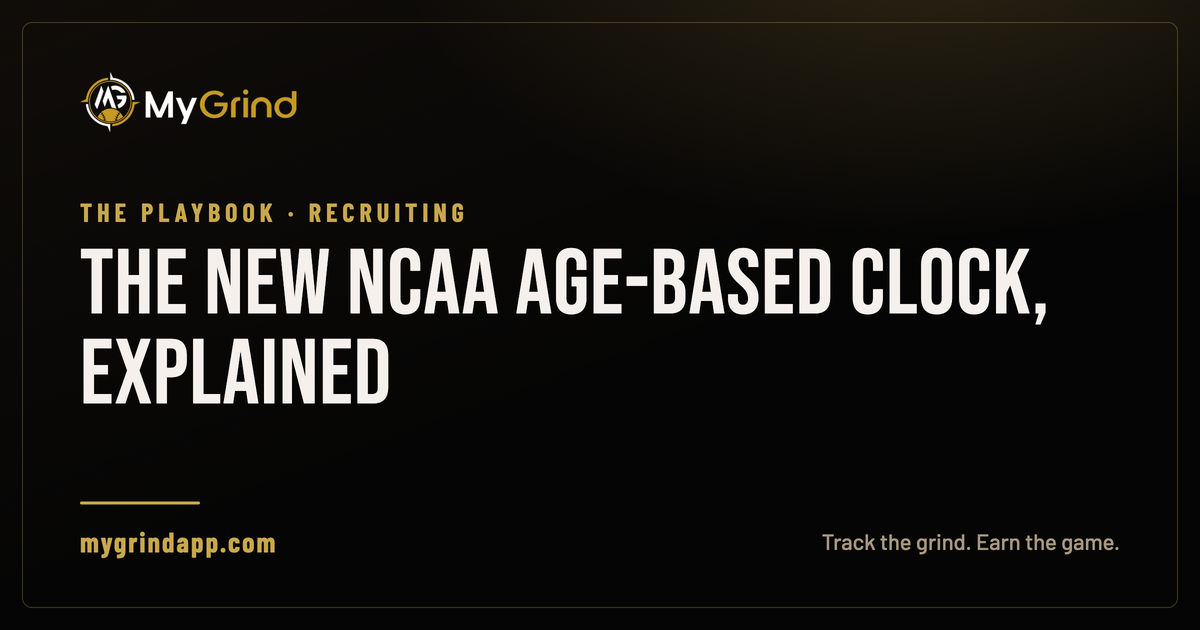
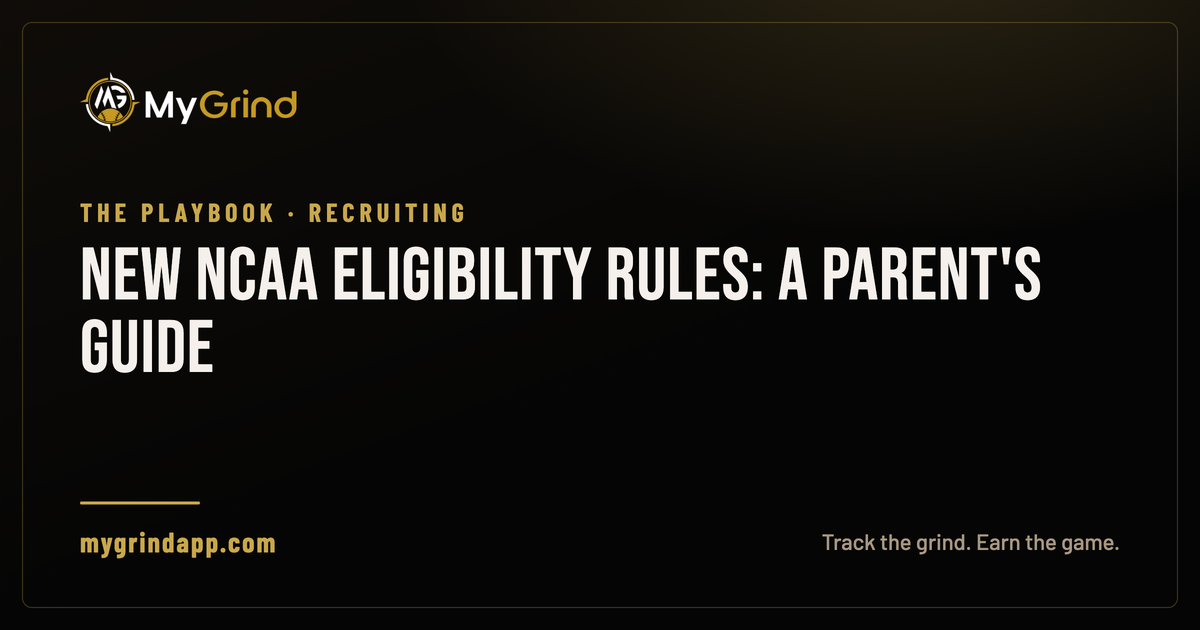
Blog: clearer title on NCAA rule-change post (audience + benefit)
"New NCAA Eligibility Rules 2026: A Baseball & Softball Parent's Guide"
replaces the jargon-led "The Age-Based Clock, Explained" so search and
readers immediately know the topic + who it is for. Keeps the head keyword
front-loaded; the age-based-clock hook still lives in the body. Updates
title/H1/OG/Twitter/JSON-LD + blog index card + rebuilt OG share card.

Changed region(s): [[0.0617, 0.3921, 0.8942, 0.6635]]

diff --git a/blog/ncaa-eligibility-rule-change-2026.html b/blog/ncaa-eligibility-rule-change-2026.html
@@ -11,7 +11,7 @@
   gtag('js', new Date());
   gtag('config', 'G-5HLS0F06CQ');
 </script>
-<title>New NCAA Eligibility Rules 2026: The Age-Based Clock, Explained | MyGrind</title>
+<title>New NCAA Eligibility Rules 2026: A Baseball &amp; Softball Parent's Guide | MyGrind</title>
 <meta name="description" content="The NCAA just replaced the 5-years-to-play-4 rule with an age-based eligibility clock. What the new model means for baseball and softball families, when it takes effect, and the one thing it did not change.">
 <meta name="keywords" content="new NCAA eligibility rules 2026, NCAA age-based eligibility, NCAA 5 seasons in 5 years, NCAA five year rule, NCAA eligibility clock, is the medical redshirt gone, NCAA eligibility rule change, college baseball eligibility, NCAA reclass JUCO eligibility, NCAA eligibility age 19, Division I eligibility 2026">
 <meta name="author" content="MyGrind">
@@ -19,7 +19,7 @@
 <link rel="canonical" href="https://www.mygrindapp.com/blog/ncaa-eligibility-rule-change-2026.html">
 
 <meta property="og:type" content="article">
-<meta property="og:title" content="New NCAA Eligibility Rules 2026: The Age-Based Clock, Explained">
+<meta property="og:title" content="New NCAA Eligibility Rules 2026: A Baseball &amp; Softball Parent's Guide">
 <meta property="og:description" content="The NCAA replaced 5-years-to-play-4 with an age-based clock. What it means for your baseball or softball player, when it hits, and the one thing it did not change.">
 <meta property="og:url" content="https://www.mygrindapp.com/blog/ncaa-eligibility-rule-change-2026.html">
 <meta property="og:site_name" content="MyGrind">
@@ -30,7 +30,7 @@
 <meta property="article:modified_time" content="2026-06-26">
 <meta property="og:locale" content="en_US">
 <meta name="twitter:card" content="summary_large_image">
-<meta name="twitter:title" content="New NCAA Eligibility Rules 2026: The Age-Based Clock, Explained">
+<meta name="twitter:title" content="New NCAA Eligibility Rules 2026: A Baseball &amp; Softball Parent's Guide">
 <meta name="twitter:description" content="The NCAA replaced 5-years-to-play-4 with an age-based clock. What it means for your player, and the one thing it did not change.">
 <meta name="twitter:image" content="https://www.mygrindapp.com/assets/og/ncaa-eligibility-rule-change-2026.png">
 
@@ -47,7 +47,7 @@
   "@graph": [
     {
       "@type": "BlogPosting",
-      "headline": "New NCAA Eligibility Rules 2026: The Age-Based Clock, Explained",
+      "headline": "New NCAA Eligibility Rules 2026: A Baseball & Softball Parent's Guide",
       "description": "The NCAA replaced the 5-years-to-play-4 rule with an age-based eligibility clock. What the new model means for baseball and softball families, when it takes effect, and the one thing it did not change.",
       "image": "https://www.mygrindapp.com/assets/og/ncaa-eligibility-rule-change-2026.png",
       "datePublished": "2026-06-26",
@@ -66,7 +66,7 @@
       "itemListElement": [
         { "@type": "ListItem", "position": 1, "name": "Home", "item": "https://www.mygrindapp.com/" },
         { "@type": "ListItem", "position": 2, "name": "Blog", "item": "https://www.mygrindapp.com/blog/" },
-        { "@type": "ListItem", "position": 3, "name": "New NCAA Eligibility Rules 2026: The Age-Based Clock", "item": "https://www.mygrindapp.com/blog/ncaa-eligibility-rule-change-2026.html" }
+        { "@type": "ListItem", "position": 3, "name": "New NCAA Eligibility Rules 2026: A Baseball & Softball Parent's Guide", "item": "https://www.mygrindapp.com/blog/ncaa-eligibility-rule-change-2026.html" }
       ]
     },
     {
@@ -125,7 +125,7 @@
     <a href="/">Home</a> <span>/</span> <a href="/blog/">Blog</a>
   </nav>
 
-  <h1>New NCAA Eligibility Rules 2026: The Age-Based Clock, Explained</h1>
+  <h1>New NCAA Eligibility Rules 2026: A Baseball &amp; Softball Parent's Guide</h1>
   <div class="article-meta">By Coach &middot; June 26, 2026 &middot; 9 min read</div>
 
   <article class="article-body">

diff --git a/blog/index.html b/blog/index.html
@@ -52,7 +52,7 @@
       "publisher": { "@type": "Organization", "name": "MyGrind", "url": "https://www.mygrindapp.com/" },
       "blogPost": [
         { "@type": "BlogPosting", "headline": "Private vs Public School for Baseball & Softball: How to Choose a High School", "url": "https://www.mygrindapp.com/blog/choosing-high-school-baseball-softball.html", "datePublished": "2026-06-23" },
-        { "@type": "BlogPosting", "headline": "New NCAA Eligibility Rules 2026: The Age-Based Clock, Explained", "url": "https://www.mygrindapp.com/blog/ncaa-eligibility-rule-change-2026.html", "datePublished": "2026-06-26" },
+        { "@type": "BlogPosting", "headline": "New NCAA Eligibility Rules 2026: A Baseball & Softball Parent's Guide", "url": "https://www.mygrindapp.com/blog/ncaa-eligibility-rule-change-2026.html", "datePublished": "2026-06-26" },
         { "@type": "BlogPosting", "headline": "Youth Baseball & Softball Training Calendar: What to Do Every Month of the Year", "url": "https://www.mygrindapp.com/blog/youth-baseball-softball-training-calendar.html", "datePublished": "2026-06-11" },
         { "@type": "BlogPosting", "headline": "After 12U: Travel Ball or Wait for High School?", "url": "https://www.mygrindapp.com/blog/after-12u-travel-ball-or-patience.html", "datePublished": "2026-06-06" },
         { "@type": "BlogPosting", "headline": "Softball Training Journal: How to Track Practices, Games, and Goals", "url": "https://www.mygrindapp.com/blog/softball-training-journal.html", "datePublished": "2026-06-02" },
@@ -95,7 +95,7 @@
   <p class="index-sub">Straight talk for baseball and softball families. How to track what matters, stay eligible, and develop a player who competes at the next level.</p>
 
   <a class="post-card" href="/blog/ncaa-eligibility-rule-change-2026.html">
-    <h2>New NCAA Eligibility Rules 2026: The Age-Based Clock</h2>
+    <h2>New NCAA Eligibility Rules 2026: A Baseball &amp; Softball Parent's Guide</h2>
     <p>The NCAA just replaced five-years-to-play-four with an age-based clock. What it means for your baseball or softball player, when it hits, who it skips, and the one thing it did not change.</p>
     <span class="read-more">Read more &rarr;</span>
   </a>

diff --git a/scripts/build_og.py b/scripts/build_og.py
@@ -47,7 +47,7 @@ CARDS = [
      "title": "Private vs public: the playing-time math"},
     {"slug": "ncaa-eligibility-rule-change-2026",
      "eyebrow": "The Playbook · Recruiting",
-     "title": "The new NCAA age-based clock, explained"},
+     "title": "New NCAA eligibility rules: a parent's guide"},
 ]
 
 